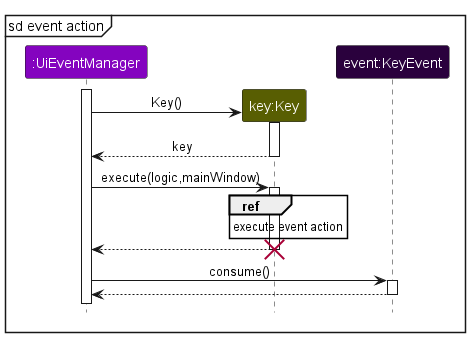
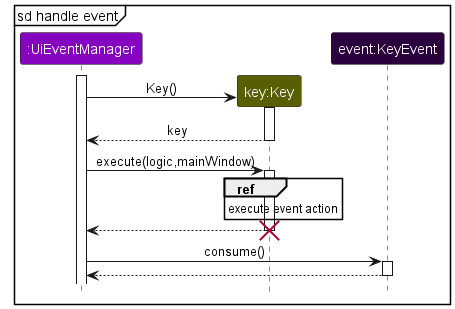
Reduce number of if-else in puml

Changed region(s): [[0.0, 0.0, 1.0, 0.9903]]

diff --git a/docs/DeveloperGuide.md b/docs/DeveloperGuide.md
@@ -275,8 +275,12 @@ method will be called with the incoming event as the argument.
 
 ![EventHandling sequence diagram](images/EventHandling.png)
 
+The above seqeuence diagram shows what happens when a keyboard event is
+registered. To keep the diagram simple, we only explicitly show two
+out of the 10 registered event handlers as the other event handlers
+work in a similar manner.
 The key combination that triggered the event will be checked against the
-above-mentioned registered event handlers to decide which event handler to invoke.
+each of the registered event handlers to decide which event handler to invoke. 
 
 ![GenericKey sequence diagram](images/GenericKey.png)
 
